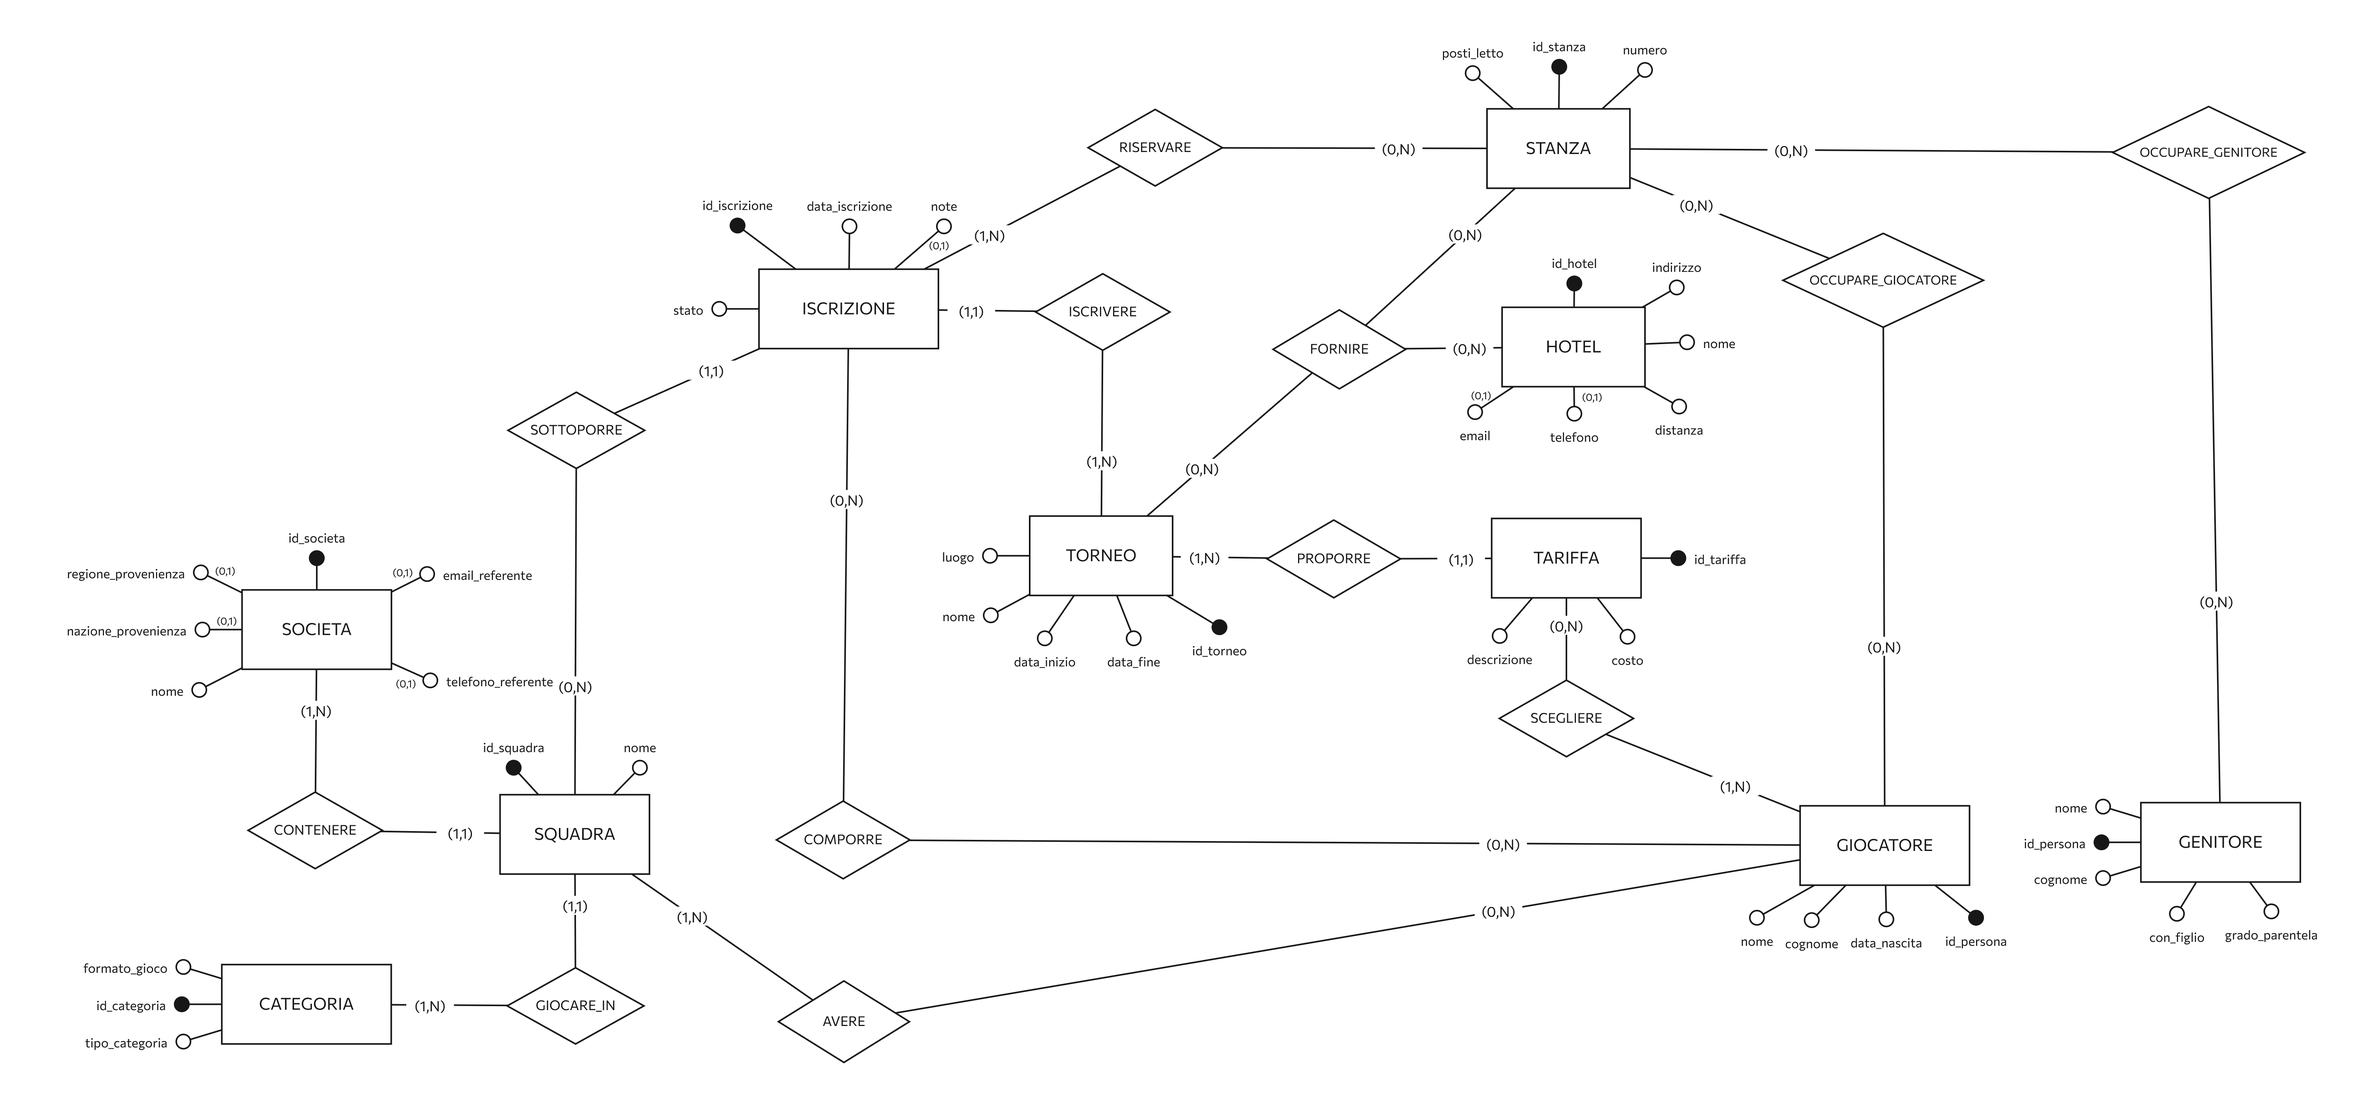
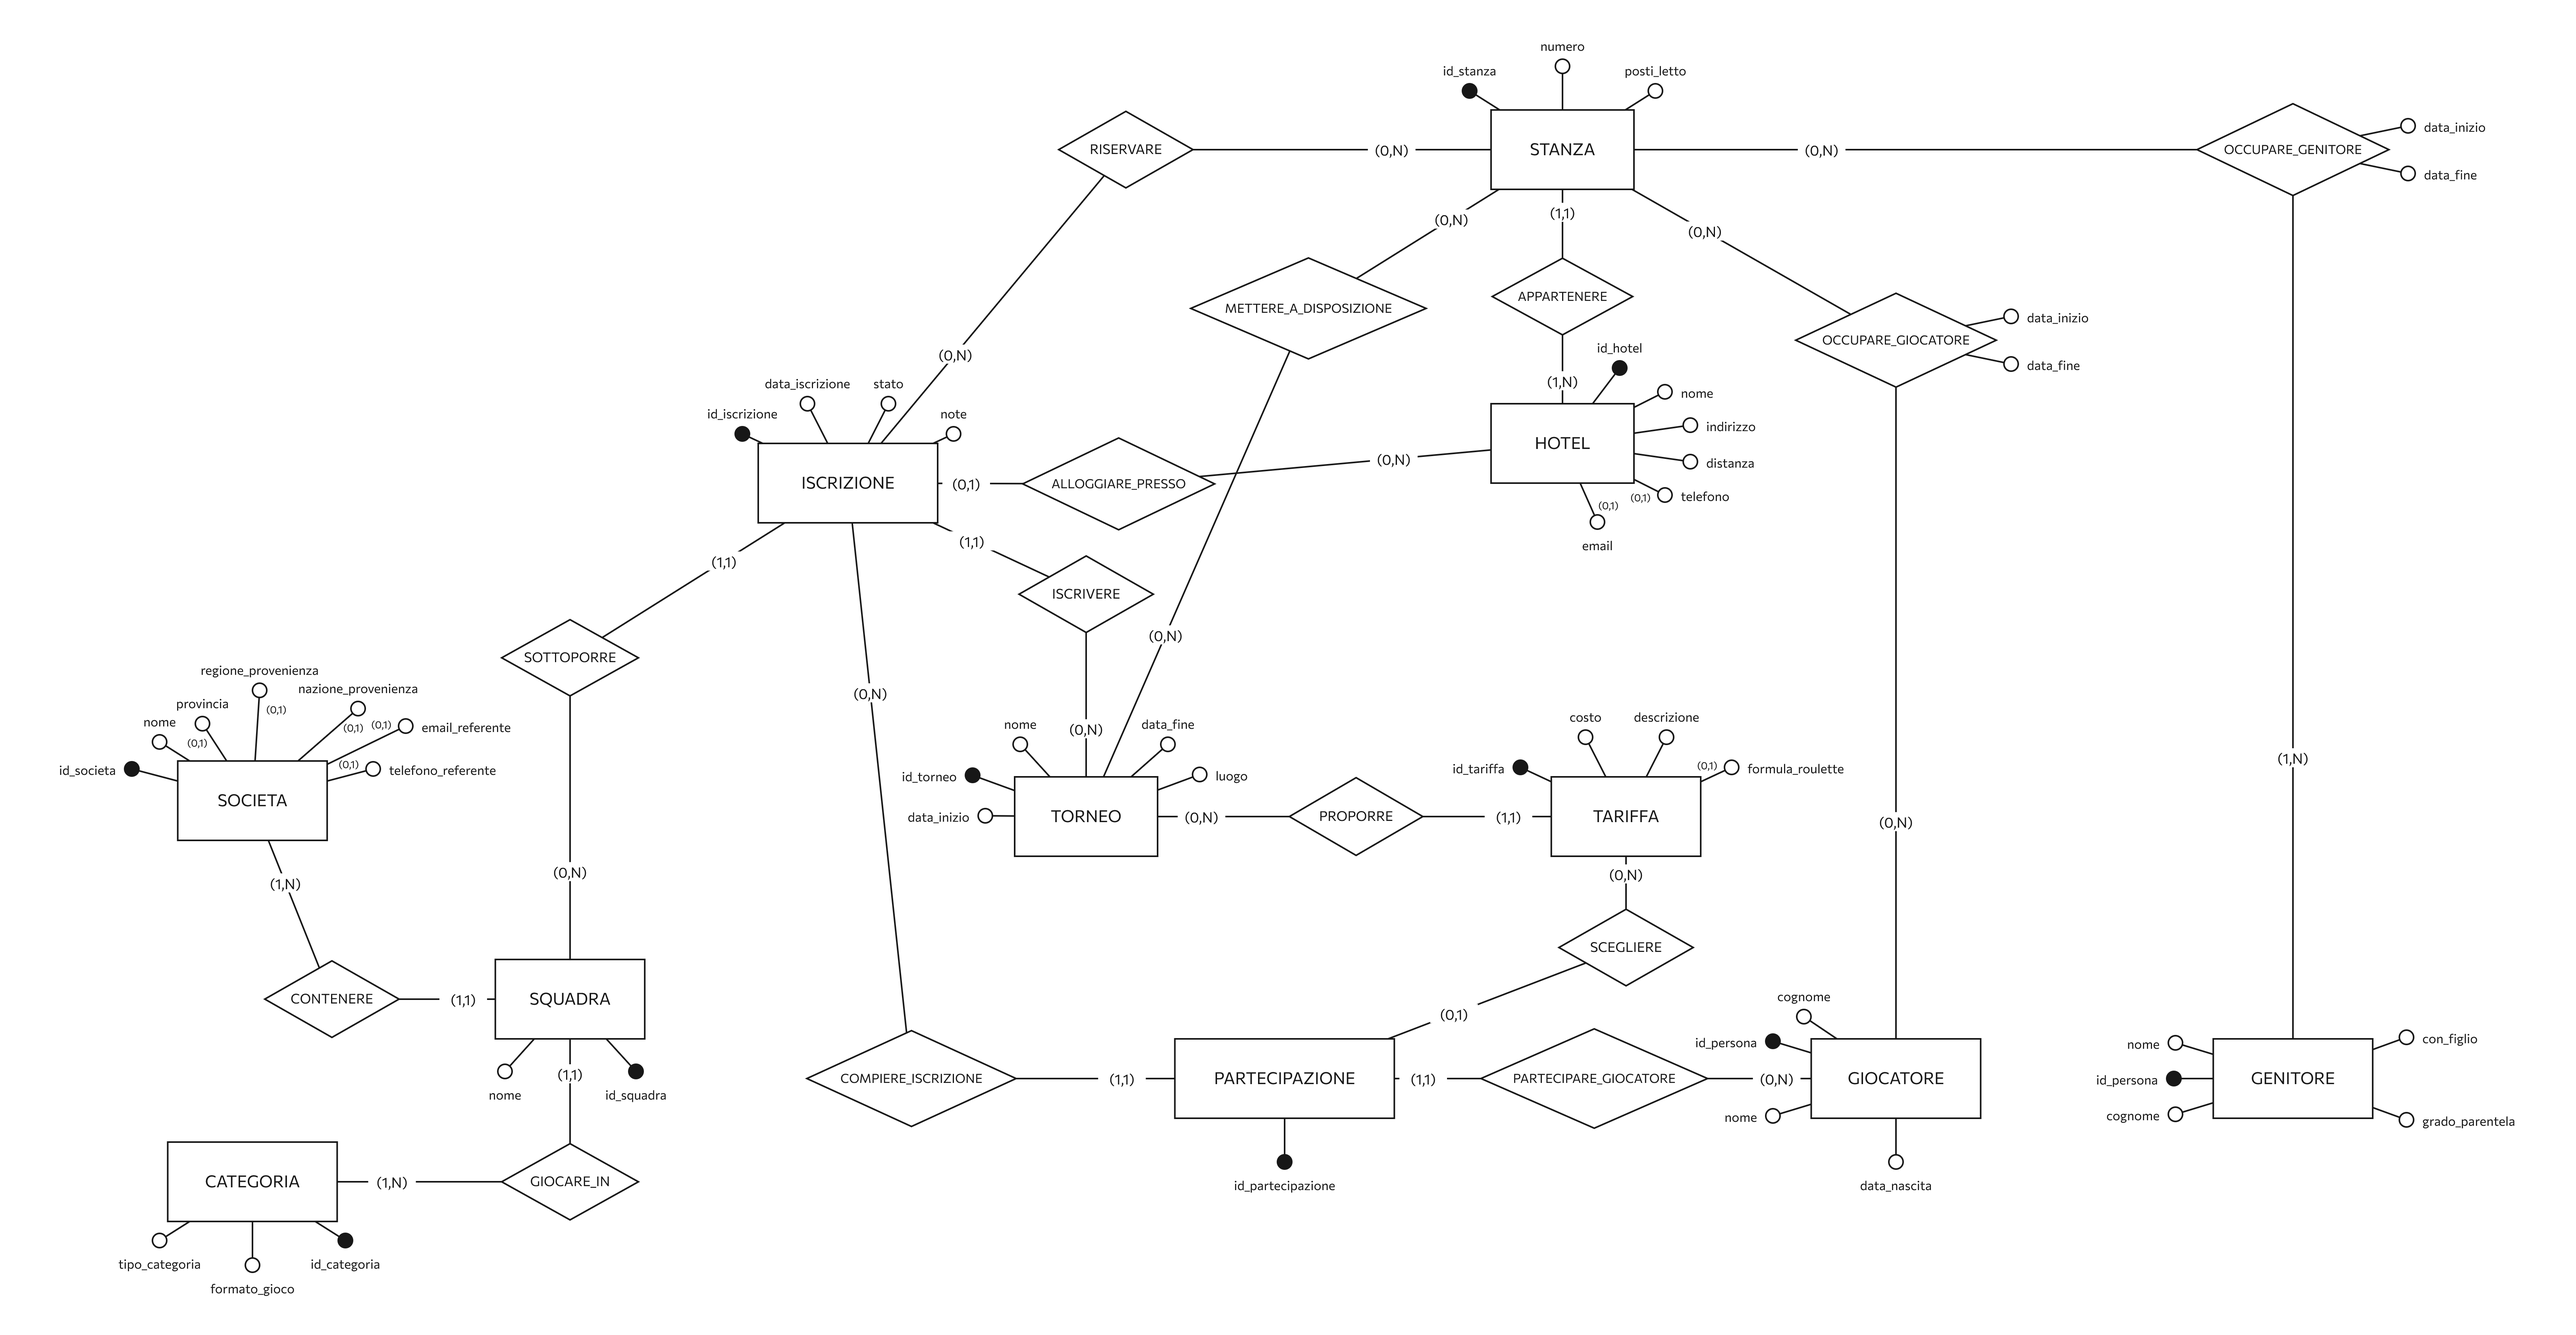
Aggiornato database
- Modificata cardinalità tra iscrizione e stanza, in quanto non tutte le squadre devono per forza alloggiare
- È stato aggiunto una relazione tra hotel e iscrizione. In questo modo in una singola edizione una squadra o non pernotta o sta in un singolo albergo
- Apparentemente c'era una relazione ternaria tra hotel stanza e torneo che è stata spezzata. Prima una camera di un albergo poteva appartenere simultaneamente a più alberghi
- Si collega la tariffa alla partecipazione (nuova entità), in questo modo un giocatore può prendere una sola tariffa per torneo
- C'erano delle ridondanze che ho tolto anche perché rischiavano di riportare dati sbagliati

diff --git a/BackEnd/db/SQL/nuovoDB_logical_schema.html b/BackEnd/db/SQL/nuovoDB_logical_schema.html
@@ -1,0 +1,31 @@
+<h3>Relational logical schema</h3>SOCIETA (<u  style="text-decoration: underline;">id_societa</u>, nome, provincia*, regione_provenienza*, nazione_provenienza*, email_referente*, telefono_referente*)<br><br>
+CATEGORIA (<u  style="text-decoration: underline;">id_categoria</u>, formato_gioco, tipo_categoria)<br><br>
+TORNEO (<u  style="text-decoration: underline;">id_torneo</u>, nome, data_inizio, data_fine, luogo)<br><br>
+GIOCATORE (<u  style="text-decoration: underline;">id_persona</u>, data_nascita, nome, cognome)<br><br>
+GENITORE (<u  style="text-decoration: underline;">id_persona</u>, con_figlio, grado_parentela, nome, cognome)<br><br>
+HOTEL (<u  style="text-decoration: underline;">id_hotel</u>, nome, indirizzo, distanza, telefono*, email*)<br><br>
+SQUADRA (<u  style="text-decoration: underline;">id_squadra</u>, nome, SOCIETA_id_societa, CATEGORIA_id_categoria)<br><br>
+ISCRIZIONE (<u  style="text-decoration: underline;">id_iscrizione</u>, data_iscrizione, stato, note*, SQUADRA_id_squadra, TORNEO_id_torneo, HOTEL_id_hotel*)<br><br>
+PARTECIPAZIONE (<u  style="text-decoration: underline;">id_partecipazione</u>, ISCRIZIONE_id_iscrizione, GIOCATORE_id_persona, TARIFFA_id_tariffa*)<br><br>
+TARIFFA (<u  style="text-decoration: underline;">id_tariffa</u>, costo, descrizione, formula_roulette*, TORNEO_id_torneo)<br><br>
+STANZA (<u  style="text-decoration: underline;">id_stanza</u>, numero, posti_letto, HOTEL_id_hotel)<br><br>
+RISERVARE (<u  style="text-decoration: underline;">ISCRIZIONE_id_iscrizione</u>, <u  style="text-decoration: underline;">STANZA_id_stanza</u>)<br><br>
+METTERE_A_DISPOSIZIONE (<u  style="text-decoration: underline;">TORNEO_id_torneo</u>, <u  style="text-decoration: underline;">STANZA_id_stanza</u>)<br><br>
+OCCUPARE_GIOCATORE (<u  style="text-decoration: underline;">GIOCATORE_id_persona</u>, <u  style="text-decoration: underline;">STANZA_id_stanza</u>, data_inizio, data_fine)<br><br>
+OCCUPARE_GENITORE (<u  style="text-decoration: underline;">GENITORE_id_persona</u>, <u  style="text-decoration: underline;">STANZA_id_stanza</u>, data_inizio, data_fine)<br><br>
+
+<br><h3>Referential integrity constraints</h3>
+
+
+
+
+
+SQUADRA (SOCIETA_id_societa)  REFERENCES SOCIETA  (id_societa)<br><br>SQUADRA (CATEGORIA_id_categoria)  REFERENCES CATEGORIA  (id_categoria)<br><br>
+ISCRIZIONE (SQUADRA_id_squadra)  REFERENCES SQUADRA  (id_squadra)<br><br>ISCRIZIONE (TORNEO_id_torneo)  REFERENCES TORNEO  (id_torneo)<br><br>ISCRIZIONE (HOTEL_id_hotel)  REFERENCES HOTEL  (id_hotel)<br><br>
+PARTECIPAZIONE (ISCRIZIONE_id_iscrizione)  REFERENCES ISCRIZIONE  (id_iscrizione)<br><br>PARTECIPAZIONE (GIOCATORE_id_persona)  REFERENCES GIOCATORE  (id_persona)<br><br>PARTECIPAZIONE (TARIFFA_id_tariffa)  REFERENCES TARIFFA  (id_tariffa)<br><br>
+TARIFFA (TORNEO_id_torneo)  REFERENCES TORNEO  (id_torneo)<br><br>
+STANZA (HOTEL_id_hotel)  REFERENCES HOTEL  (id_hotel)<br><br>
+RISERVARE (ISCRIZIONE_id_iscrizione)  REFERENCES ISCRIZIONE  (id_iscrizione)<br><br>RISERVARE (STANZA_id_stanza)  REFERENCES STANZA  (id_stanza)<br><br>
+METTERE_A_DISPOSIZIONE (TORNEO_id_torneo)  REFERENCES TORNEO  (id_torneo)<br><br>METTERE_A_DISPOSIZIONE (STANZA_id_stanza)  REFERENCES STANZA  (id_stanza)<br><br>
+OCCUPARE_GIOCATORE (GIOCATORE_id_persona)  REFERENCES GIOCATORE  (id_persona)<br><br>OCCUPARE_GIOCATORE (STANZA_id_stanza)  REFERENCES STANZA  (id_stanza)<br><br>
+OCCUPARE_GENITORE (GENITORE_id_persona)  REFERENCES GENITORE  (id_persona)<br><br>OCCUPARE_GENITORE (STANZA_id_stanza)  REFERENCES STANZA  (id_stanza)<br><br>
